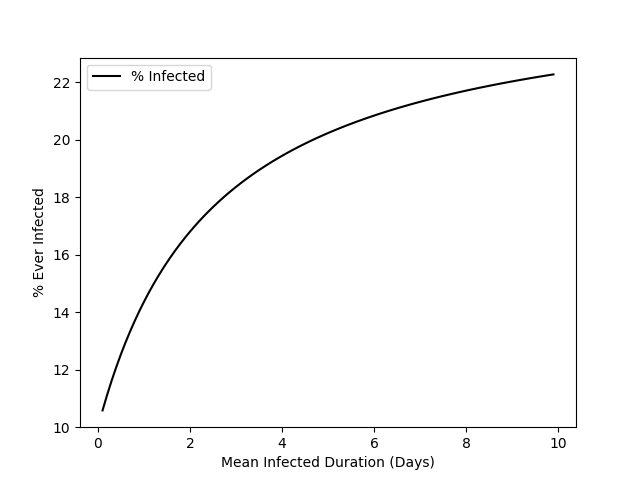
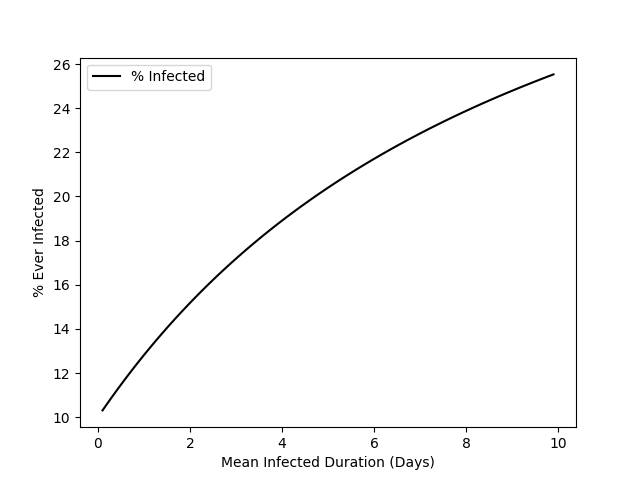
adding files

diff --git a/hrenard_program3.py b/hrenard_program3.py
@@ -9,7 +9,7 @@ def runsim(
 	contact_factor = .2,                          		# (contact / day) / person
 	mean_exposed = 2,                               	# day
 	mean_quarantine = 5,					# day
-	mean_death = 2,                                 	# day
+	mean_death = 5,                                 	# day
 	plot = True):
 	
 	recovery_factor = 1 / mean_infectious_duration    	# 1 / day
